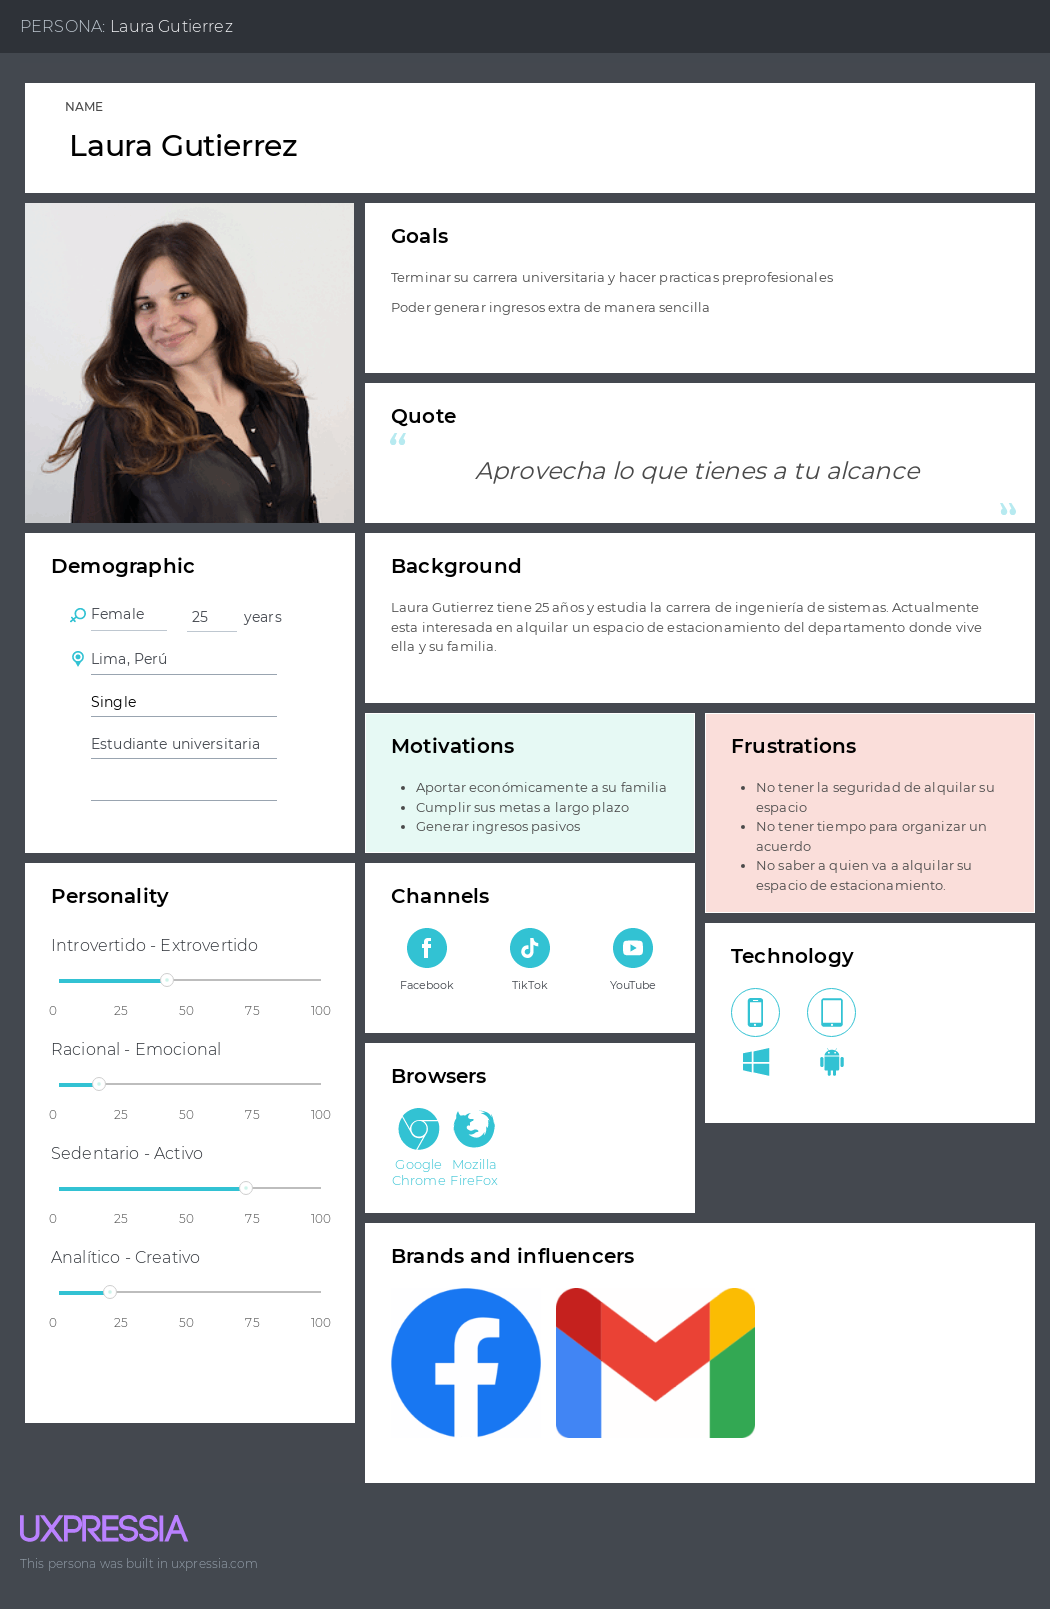
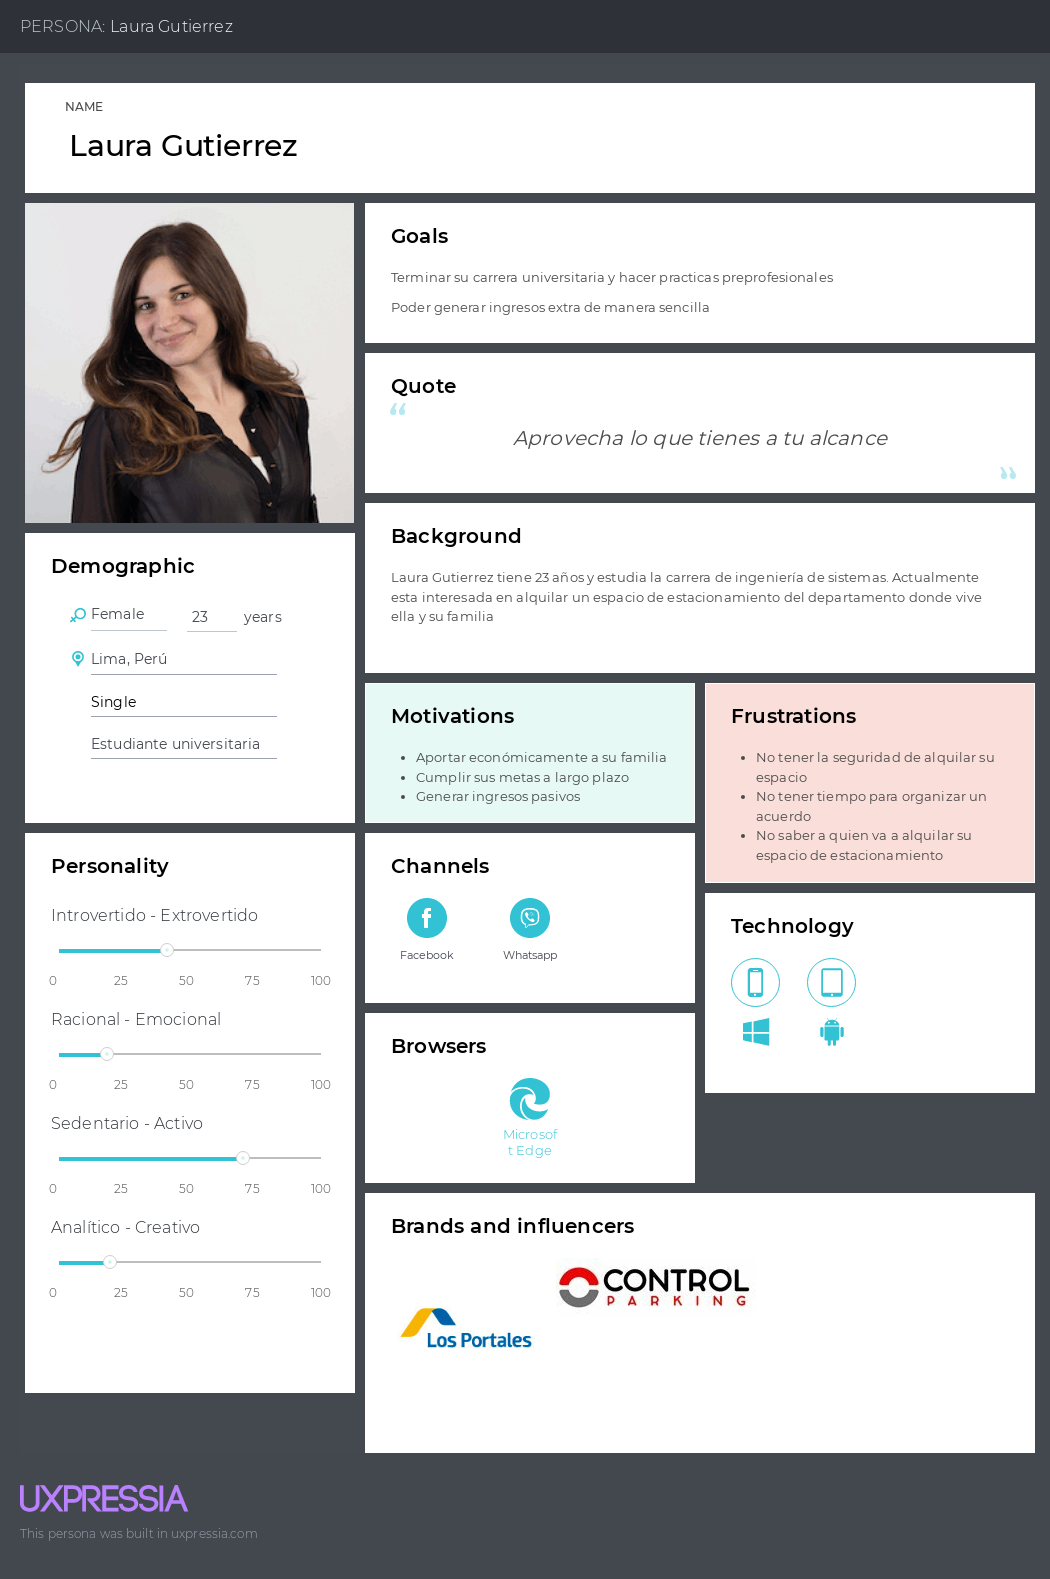
doc: Update user persona host and guest

diff --git a/Interview-analysis.md b/Interview-analysis.md
@@ -3,6 +3,7 @@
 **Segmento objetivo host:**
 
 - El 66% de los hosts son estudiantes universitarios y el 33% tiene un trabajo profesional.
+- El 66% de los hosts son mujeres y el 33% de los hosts son hombres.
 - El 66% de los hosts viven en un apartamento y pagan un estacionamiento como parte de su contrato.
 - El 100% de los hosts están interesado en alquilar su espacio de estacionamiento.
 - El 100% de los hosts tienen como principal motivación el generar ingresos extra con el alquiler de su estacionamiento.
@@ -17,15 +18,16 @@ Mediante el análisis se destaca que la mayoría de entrevistados son estudiante
 
 **Segmento objetivo guest:**
 
-- El 66% de los guest son estudiantes universitarios y el 33% tiene un trabajo profesional.
-- El 66% de los guest tiene problemas al buscar estacionamiento en los lugares donde más frecuenta.
-- El 100% de los guest tiene problemas en encontrar estacionamiento en zonas urbanas o lugares concurridos
-- El 100% de los guest siente frustración al no poder encontrar un espacio de estacionamiento.
-- El 100% de los guest no había escuchado o utilizado alguna aplicación de alquilar de estacionamientos.
-- El 66% de los guest tienen dificultad al encontrar estacionamientos por su falta de experiencia al manejar en las calles.
-- El 66% de los guest le interesa encontrar espacios de estacionamientos cercanos a los lugares donde frecuentan.
-- El 100% de los guest ve como un gran incentivo para su uso el ofrecer descuentos a usuarios frecuentes.
-- El l00% de los guest le interesa poder visualizar la información del espacio de estacionamiento.
-- El 100% de los guest le gustaría que los espacios de estacionamientos disponibles tengan sistemas de seguridad.
+- El 66% de los guests son estudiantes universitarios y el 33% tiene un trabajo profesional.
+- El 66% de los guests son hombres y el 33% de los guests son mujeres.
+- El 66% de los guests tiene problemas al buscar estacionamiento en los lugares donde más frecuenta.
+- El 100% de los guests tiene problemas en encontrar estacionamiento en zonas urbanas o lugares concurridos
+- El 100% de los guests siente frustración al no poder encontrar un espacio de estacionamiento.
+- El 100% de los guests no había escuchado o utilizado alguna aplicación de alquilar de estacionamientos.
+- El 66% de los guests tienen dificultad al encontrar estacionamientos por su falta de experiencia al manejar en las calles.
+- El 66% de los guests le interesa encontrar espacios de estacionamientos cercanos a los lugares donde frecuentan.
+- El 100% de los guests ve como un gran incentivo para su uso el ofrecer descuentos a usuarios frecuentes.
+- El l00% de los guests le interesa poder visualizar la información del espacio de estacionamiento.
+- El 100% de los guests le gustaría que los espacios de estacionamientos disponibles tengan sistemas de seguridad.
 
 El análisis del segmento objetivo revela que la mayoría son estudiantes universitarios y enfrentan consistentemente frustraciones al buscar estacionamiento en zonas urbanas. La falta de familiaridad con los lugares que visitan y la ansiedad por la disponibilidad de espacios subrayan la necesidad de la aplicación propuesta. Valorizan la accesibilidad y la cercanía de estacionamientos seguros, destacando la importancia de una interfaz fácil de usar y actualizada. El atractivo de descuentos y recompensas para usuarios frecuentes se presenta como un fuerte motivador. En resumen, la clave será ofrecer una solución intuitiva y confiable que ofrezca estacionamientos cercanos y seguros, además de incentivos atractivos para asegurar la adopción y retención de este público diverso, en su mayoría compuesto por estudiantes universitarios.

diff --git a/interview-record.md b/interview-record.md
@@ -4,7 +4,7 @@
 
 **Registro de entrevista n.º1:** Piero Marquez (22 años - San Miguel) - 21/08/23
 
-**Inicio y final de la entrevista:**  (00:00-06:52) 
+**(Start of recording: 00:00, End of recording: 06:52)**
 
 ![Alt text](Image/InterviewHost-1.png)
 
@@ -16,7 +16,7 @@ Piero, un estudiante universitario dedicado e interesado en buscar prácticas, n
 
 **Registro de entrevista n.º2:** Maryori Espinoza Espinoza (20 años - Santa Anita) - 21/08/23
 
-**Inicio y final de la entrevista:** (00:00-06:31) 
+**(Start of recording: 00:00, End of recording: 06:31)** 
 
 ![Alt text](Image/InterviewHost-2.png)
 
@@ -28,7 +28,7 @@ Maryori, una estudiante universitaria capaz e interesada en alquilar el espacio 
 
 **Registro de entrevista n.º3:** Mayra (23 años - Santiago de Surco) - 21/08/23
 
-**Inicio y final de la entrevista:** (00:00-05:53) 
+**(Start of recording: 00:00, End of recording: 05:53)** 
 
 ![Alt text](Image/InterviewHost-3.png)
 
@@ -42,7 +42,7 @@ Mayra, una economista profesional, ha estado considerando alquilar uno de los es
 
 **Registro de entrevista n.º1:** Kevin Tumbalobos Cubas (22 años – San Miguel) - 23/08/23
 
-**Inicio y final de la entrevista:** (00:00-06:52) 
+**(Start of recording: 00:00, End of recording: 06:52)**
 
 ![Alt text](Image/InterviewGuest-1.png)
 
@@ -54,7 +54,7 @@ Kevin, un especialista junior de Cloud Services, ha tenido dificultades al busca
 
 **Registro de entrevista n.º2:** Leonardo (21 años - Los olivos) - 23/08/23
 
-**Inicio y final de la entrevista:** (00:00-06:37) 
+**(Start of recording: 00:00, End of recording: 06:37)**
 
 ![Alt text](Image/InterviewGuest-2.png)
 
@@ -66,7 +66,7 @@ Leonardo, un estudiante universitario serio y franco, nos transmitió su experie
 
 **Registro de entrevista n.º3:** Jany Aventadaño (22 años – San Miguel) - 23/08/23
 
-**Inicio y final de la entrevista:** (00:00-07:48) 
+**(Start of recording: 00:00, End of recording: 07:48)**
 
 ![Alt text](Image/InterviewGuest-3.png)
 

diff --git a/User-Personas.md b/User-Personas.md
@@ -2,12 +2,12 @@
 
 **Segmento objetivo host:**
 
-Acá podemos observar el User Persona de nuestro segmento Host donde Laura Gutierrez una estudiante universitaria de 25 años residente en Lima, Perú nos cuenta sobre sus metas, motivaciones, frustraciones y las tecnologias que usa en su dia a dia como sus marcas preferidas. Información que nos sirva para realizar nuestro estudio de mercado y poder hacer un servicio que cumpla con sus expectativas.
+Acá podemos observar el User Persona de nuestro segmento Host donde Laura Gutierrez una estudiante universitaria de 23 años residente en Lima, Perú nos cuenta sobre sus metas, motivaciones, frustraciones y las tecnologias que usa en su dia a dia como sus marcas preferidas. Información que nos sirva para realizar nuestro estudio de mercado y poder hacer un servicio que cumpla con sus expectativas.
 
 ![Alt text](<Image/User Persona-Laura Gutierrez.png>)
 
 **Segmento objetivo guest:**
 
-Acá podemos observar el User Persona de nuestro segmento Guest donde Laura Gutierrez una estudiante universitaria de 22 años residente en Lima, Perú nos cuenta sobre sus metas, motivaciones, frustraciones y las tecnologias que usa en su dia a dia como sus marcas preferidas. Información que nos sirva para realizar nuestro estudio de mercado y poder hacer un servicio que cumpla con sus expectativas.
+Acá podemos observar el User Persona de nuestro segmento Guest donde Luis Morales una estudiante universitaria de 22 años residente en Lima, Perú nos cuenta sobre sus metas, motivaciones, frustraciones y las tecnologias que usa en su dia a dia como sus marcas preferidas. Información que nos sirva para realizar nuestro estudio de mercado y poder hacer un servicio que cumpla con sus expectativas.
 
 ![Alt text](<Image/User Persona-Luis Morales.png>)
